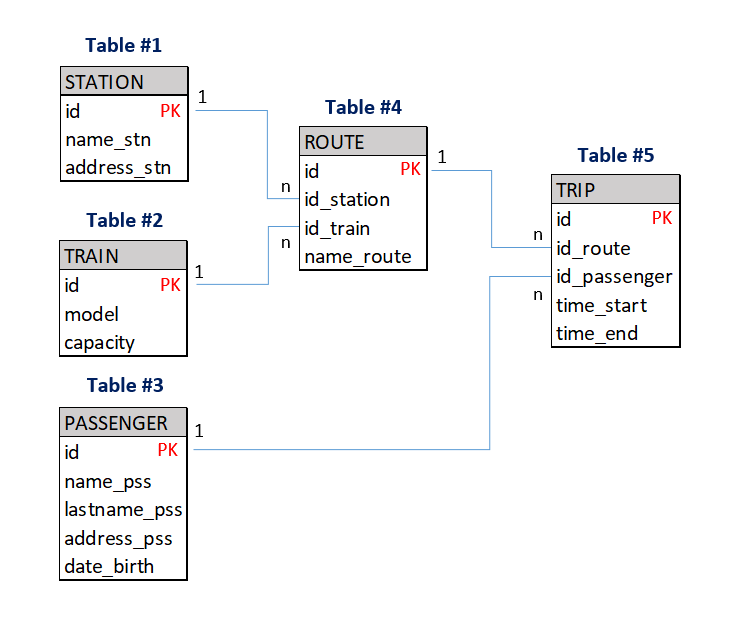
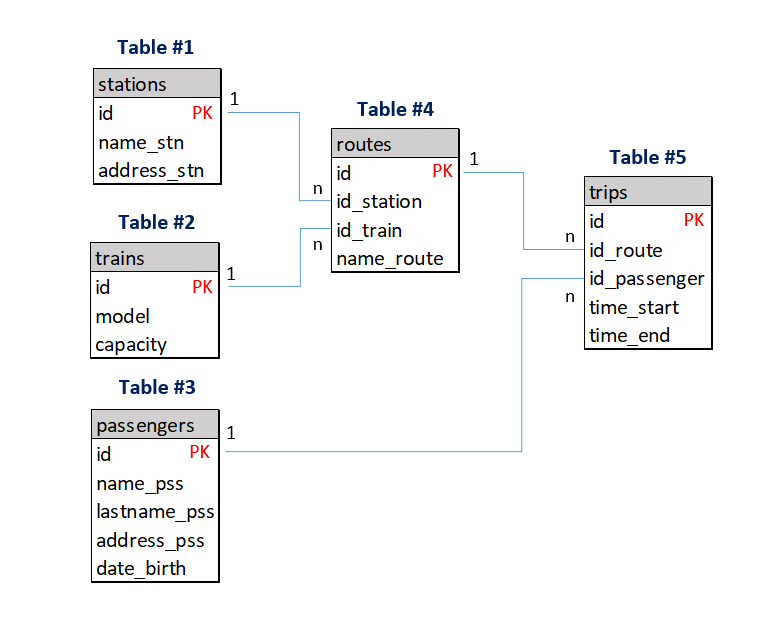
File updated

diff --git a/sql-course/postgresql-101/06_create_db.md b/sql-course/postgresql-101/06_create_db.md
@@ -24,6 +24,8 @@ Repasemos el modelo relacional...
 
 <img src="img/pic1.png" width="400">
 
+Vamos a crear las tablas del modelo relaciona junto a las llaves primarias. La relaciones de las tablas (Forein Keys) lo dejaremos para un paso posterior.
+
 **Tabla #1: "stations"**
 ```sql
 CREATE TABLE public.stations
@@ -86,17 +88,7 @@ CREATE TABLE public.routes
     id_station integer NOT NULL,
     id_train integer NOT NULL,
     name_route character varying(20) NOT NULL,
-    CONSTRAINT routes_pkey PRIMARY KEY (id),
-    CONSTRAINT stations_fkey FOREIGN KEY (id_station)
-        REFERENCES public.stations (id) MATCH SIMPLE
-        ON UPDATE NO ACTION
-        ON DELETE NO ACTION
-        NOT VALID,
-    CONSTRAINT trains_fkey FOREIGN KEY (id_train)
-        REFERENCES public.trains (id) MATCH SIMPLE
-        ON UPDATE NO ACTION
-        ON DELETE NO ACTION
-        NOT VALID
+    CONSTRAINT routes_pkey PRIMARY KEY (id)
 );
 
 ALTER TABLE IF EXISTS public.routes
@@ -114,17 +106,7 @@ CREATE TABLE public.trips
     id serial NOT NULL,
     id_route integer NOT NULL,
     id_passenger integer NOT NULL,
-    CONSTRAINT trips_pkey PRIMARY KEY (id),
-    CONSTRAINT routes_fkey FOREIGN KEY (id_route)
-        REFERENCES public.routes (id) MATCH SIMPLE
-        ON UPDATE NO ACTION
-        ON DELETE NO ACTION
-        NOT VALID,
-    CONSTRAINT passengers_fkey FOREIGN KEY (id_passenger)
-        REFERENCES public.passengers (id) MATCH SIMPLE
-        ON UPDATE NO ACTION
-        ON DELETE NO ACTION
-        NOT VALID
+    CONSTRAINT trips_pkey PRIMARY KEY (id)
 );
 
 ALTER TABLE IF EXISTS public.trips
